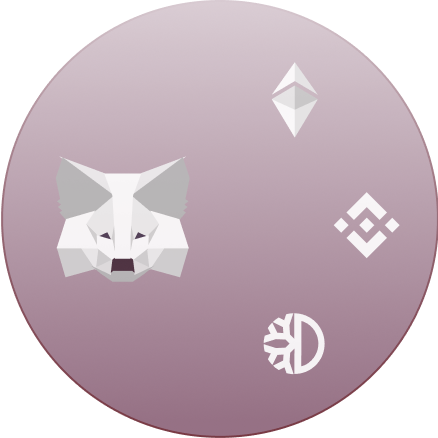
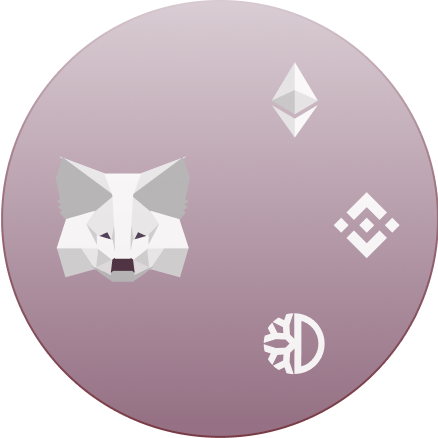
Feature/dev 1085 Design fixes / Title / Header-graphic fixes (#41)
* [DEV-1085] fixed header-graphic

* [DEV-1085] Design-Finetunings (alignments, spacings & co)

Changed region(s): [[0.6233, 0.1484, 0.742, 0.2968]]

diff --git a/src/components/tabs/buy-tab-content/buy.process.tsx b/src/components/tabs/buy-tab-content/buy.process.tsx
@@ -28,6 +28,7 @@ import StyledBankAccountListItem from '../../../stories/form/StyledBankAccountLi
 import StyledInfoText from '../../../stories/StyledInfoText';
 import StyledVerticalStack from '../../../stories/layout-helpers/StyledVerticalStack';
 import StyledDropdown from '../../../stories/form/StyledDropdown';
+import StyledSpacer from '../../../stories/layout-helpers/StyledSpacer';
 
 interface BuyTabContentProcessProps {
   asset?: Asset;
@@ -179,7 +180,7 @@ export function BuyTabContentProcess({ asset, onBack }: BuyTabContentProcessProp
 
                     <label className="text-dfxBlue-800 text-base font-semibold pl-3.5">Your Wallet</label>
                   </div>
-                  <div className="border border-dfxGray-400 rounded px-2 py-1.5 drop-shadow-sm">
+                  <div className="border border-dfxGray-400 rounded px-2 py-1 drop-shadow-sm">
                     <StyledCoinListItem
                       asset={asset.name}
                       protocol={BuyTabDefinitions.protocols[asset.blockchain]}
@@ -198,6 +199,7 @@ export function BuyTabContentProcess({ asset, onBack }: BuyTabContentProcessProp
               forceErrorMessage={customAmountError}
             />
           </StyledVerticalStack>
+          <StyledSpacer spacing={6} />
         </Form>
         {paymentInfo && dataValid && !kycRequired && (
           <>

diff --git a/src/components/buy/add-bank-account.tsx b/src/components/buy/add-bank-account.tsx
@@ -5,6 +5,7 @@ import { BankAccount } from '../../api/definitions/bank-account';
 import { CreateBankAccount } from '../../api/hooks/bank-account.hook';
 import Form from '../../stories/form/Form';
 import StyledInput from '../../stories/form/StyledInput';
+import StyledSpacer from '../../stories/layout-helpers/StyledSpacer';
 import StyledVerticalStack from '../../stories/layout-helpers/StyledVerticalStack';
 import StyledButton, { StyledButtonColors, StyledButtonWidths } from '../../stories/StyledButton';
 import { Utils } from '../../utils';
@@ -36,6 +37,7 @@ export function AddBankAccount({ onSubmit }: AddBankAccountProps): JSX.Element {
       <StyledVerticalStack gap={4}>
         <StyledInput label="IBAN" placeholder="XX XXXX XXXX XXXX XXXX X" name="iban" />
         <StyledInput label="Optional - Account Designation" placeholder="eg. Deutsche Bank" name="label" />
+        <StyledSpacer spacing={-1} />
         <StyledButton
           disabled={!isValid}
           color={StyledButtonColors.RED}

diff --git a/src/stories/StyledCoinListItem.tsx b/src/stories/StyledCoinListItem.tsx
@@ -44,10 +44,11 @@ export default function StyledCoinListItem({
         <DfxAssetIcon asset={asset as AssetIconVariant} disabled={comingSoon} />
       </div>
       <div className="flex-col text-dfxBlue-800 text-left">
-        <div className="flex font-semibold gap-1">
-          <h4 className="leading-none">{asset}</h4> <span className="self-start leading-none text-2xs">{protocol}</span>{' '}
+        <div className="flex font-semibold gap-1 ">
+          <h4 className="leading-none">{asset}</h4>
+          <span className="self-start leading-none text-2xs shrink-0">{protocol}</span>{' '}
         </div>
-        <span className="text-dfxGray-800 text-xs relative -top-1">{name}</span>
+        <span className="text-dfxGray-800 text-xs leading-none relative -top-1">{name}</span>
       </div>
     </button>
   );

diff --git a/src/stories/StyledCoinList.stories.tsx b/src/stories/StyledCoinList.stories.tsx
@@ -34,7 +34,21 @@ export const CoinListingRow: ComponentStory<typeof StyledCoinList> = (args) => {
           protocol={Protocol.ERC_20}
         />
         <StyledCoinListItem
-          asset={AssetIconVariant.DFI}
+          asset="BSC-USD"
+          onClick={() => {
+            console.log('clicked');
+          }}
+          protocol={Protocol.ERC_20}
+        />{' '}
+        <StyledCoinListItem
+          asset={AssetIconVariant.USDT}
+          onClick={() => {
+            console.log('clicked');
+          }}
+          protocol={Protocol.ERC_20}
+        />
+        <StyledCoinListItem
+          asset={AssetIconVariant.USDC}
           onClick={() => {
             console.log('clicked');
           }}

diff --git a/src/stories/StyledModal.tsx b/src/stories/StyledModal.tsx
@@ -38,7 +38,7 @@ export default function StyledModal({
 
   let containerClasses = 'rounded-lg shadow-lg  relative flex flex-col w-full outline-none focus:outline-none';
   let headingClasses = 'p-3 border-b rounded-t';
-  let bodyClasses = 'relative px-14 pb-12 flex-auto';
+  let bodyClasses = 'relative px-14 pb-10 flex-auto';
 
   if (type !== StyledModalTypes.ALERT) {
     color === StyledModalColors.DFX_GRADIENT
@@ -50,7 +50,7 @@ export default function StyledModal({
     bodyClasses += ' text-center';
   }
 
-  showHeader ? (bodyClasses += ' pt-8') : (bodyClasses += ' pt-12');
+  showHeader ? (bodyClasses += ' pt-6') : (bodyClasses += ' pt-12');
 
   return (
     <>

diff --git a/src/stories/form/StyledDropdown.tsx b/src/stories/form/StyledDropdown.tsx
@@ -49,9 +49,9 @@ export default function StyledDropdown<T>({
             disabled={disabled}
             {...props}
           >
-            <div className="flex flex-col gap-2 justify-between text-left">
+            <div className="flex flex-col gap-1 justify-between text-left">
               {value === undefined ? (
-                <p className="text-dfxGray-400 drop-shadow-none py-[0.3rem]">{placeholder}</p>
+                <p className="text-dfxGray-400 drop-shadow-none py-[0.25rem]">{placeholder}</p>
               ) : (
                 <>
                   <span className="text-dfxBlue-800 leading-none font-semibold">{labelFunc(value)}</span>

diff --git a/src/stories/form/StyledBankAccountListItem.tsx b/src/stories/form/StyledBankAccountListItem.tsx
@@ -8,7 +8,7 @@ export interface StyledBankAccountListItemProps {
 export default function StyledBankAccountListItem({ bankAccount }: StyledBankAccountListItemProps) {
   const isLabelAvailable = bankAccount.label && bankAccount.label.length > 0;
   return (
-    <div className="flex gap-3 mb-3 last:mb-0 rounded-sm py-1 px-3 hover:bg-dfxGray-400/50 ">
+    <div className="flex gap-3 mb-3 last:mb-0 rounded py-1 px-3 hover:bg-dfxGray-400/50 ">
       <div className="place-self-center">
         <DfxIcon icon={IconVariant.BANK} color={IconColors.BLACK} />
       </div>

diff --git a/src/components/main.tsx b/src/components/main.tsx
@@ -65,7 +65,7 @@ export function Main(): JSX.Element {
           </div>
           <div className="md:flex justify-between mt-6">
             <div className="basis-3/5 max-w-[50%] px-6 mx-auto md:mx-0">
-              <DfxTitleSection heading="DFX Multichain" subheading="Buy • Sell • Convert • Stake" />
+              <DfxTitleSection heading="DFX Exchange" subheading="Buy • Sell • Convert • Stake" />
             </div>
             <aside className="basis-2/5 shrink-0 md:min-w-[470px] lg:min-w-[512px] mx-auto md:mx-0">
               <WalletBox />

diff --git a/src/components/user-data.tsx b/src/components/user-data.tsx
@@ -60,7 +60,7 @@ export function UserData(): JSX.Element {
           : undefined,
     },
     { title: 'Referral commission', value: `${user?.refFeePercent ?? 0 * 100} %` },
-    { title: 'Referral users', value: user?.refCount },
+    { title: 'Referred users', value: user?.refCount },
     { title: 'Referral volume', value: `${Utils.formatAmount(user?.refVolume)} €` },
     { title: 'Referral bonus', value: `${Utils.formatAmount(user?.paidRefCredit)} €` },
   ];

diff --git a/src/stories/StyledCoinList.tsx b/src/stories/StyledCoinList.tsx
@@ -8,7 +8,7 @@ export default function StyledCoinList({ heading, children }: StyledCoinListProp
   return (
     <div className="mb-6 last:mb-0">
       <h3 className="text-dfxBlue-800 text-sm border-b border-dfxGray-400">{heading}</h3>
-      <div className="grid gap-4 grid-cols-3 md:grid-cols-4 lg:grid-cols-5 xl:grid-cols-6 my-3">{children}</div>
+      <div className="grid gap-4 grid-cols-3 md:grid-cols-4 lg:grid-cols-5 my-3">{children}</div>
     </div>
   );
 }

diff --git a/src/stories/form/StyledModalDropdown.tsx b/src/stories/form/StyledModalDropdown.tsx
@@ -41,7 +41,7 @@ export default function StyledModalDropdown<T>({
             color={StyledModalColors.WHITE}
           >
             {modal.items.length > 0 && (
-              <StyledVerticalStack gap={2}>
+              <StyledVerticalStack gap={4}>
                 {modal.items
                   .map((item) => ({ item, content: modal.itemContent(item) }))
                   .map((obj, index: number) => (
